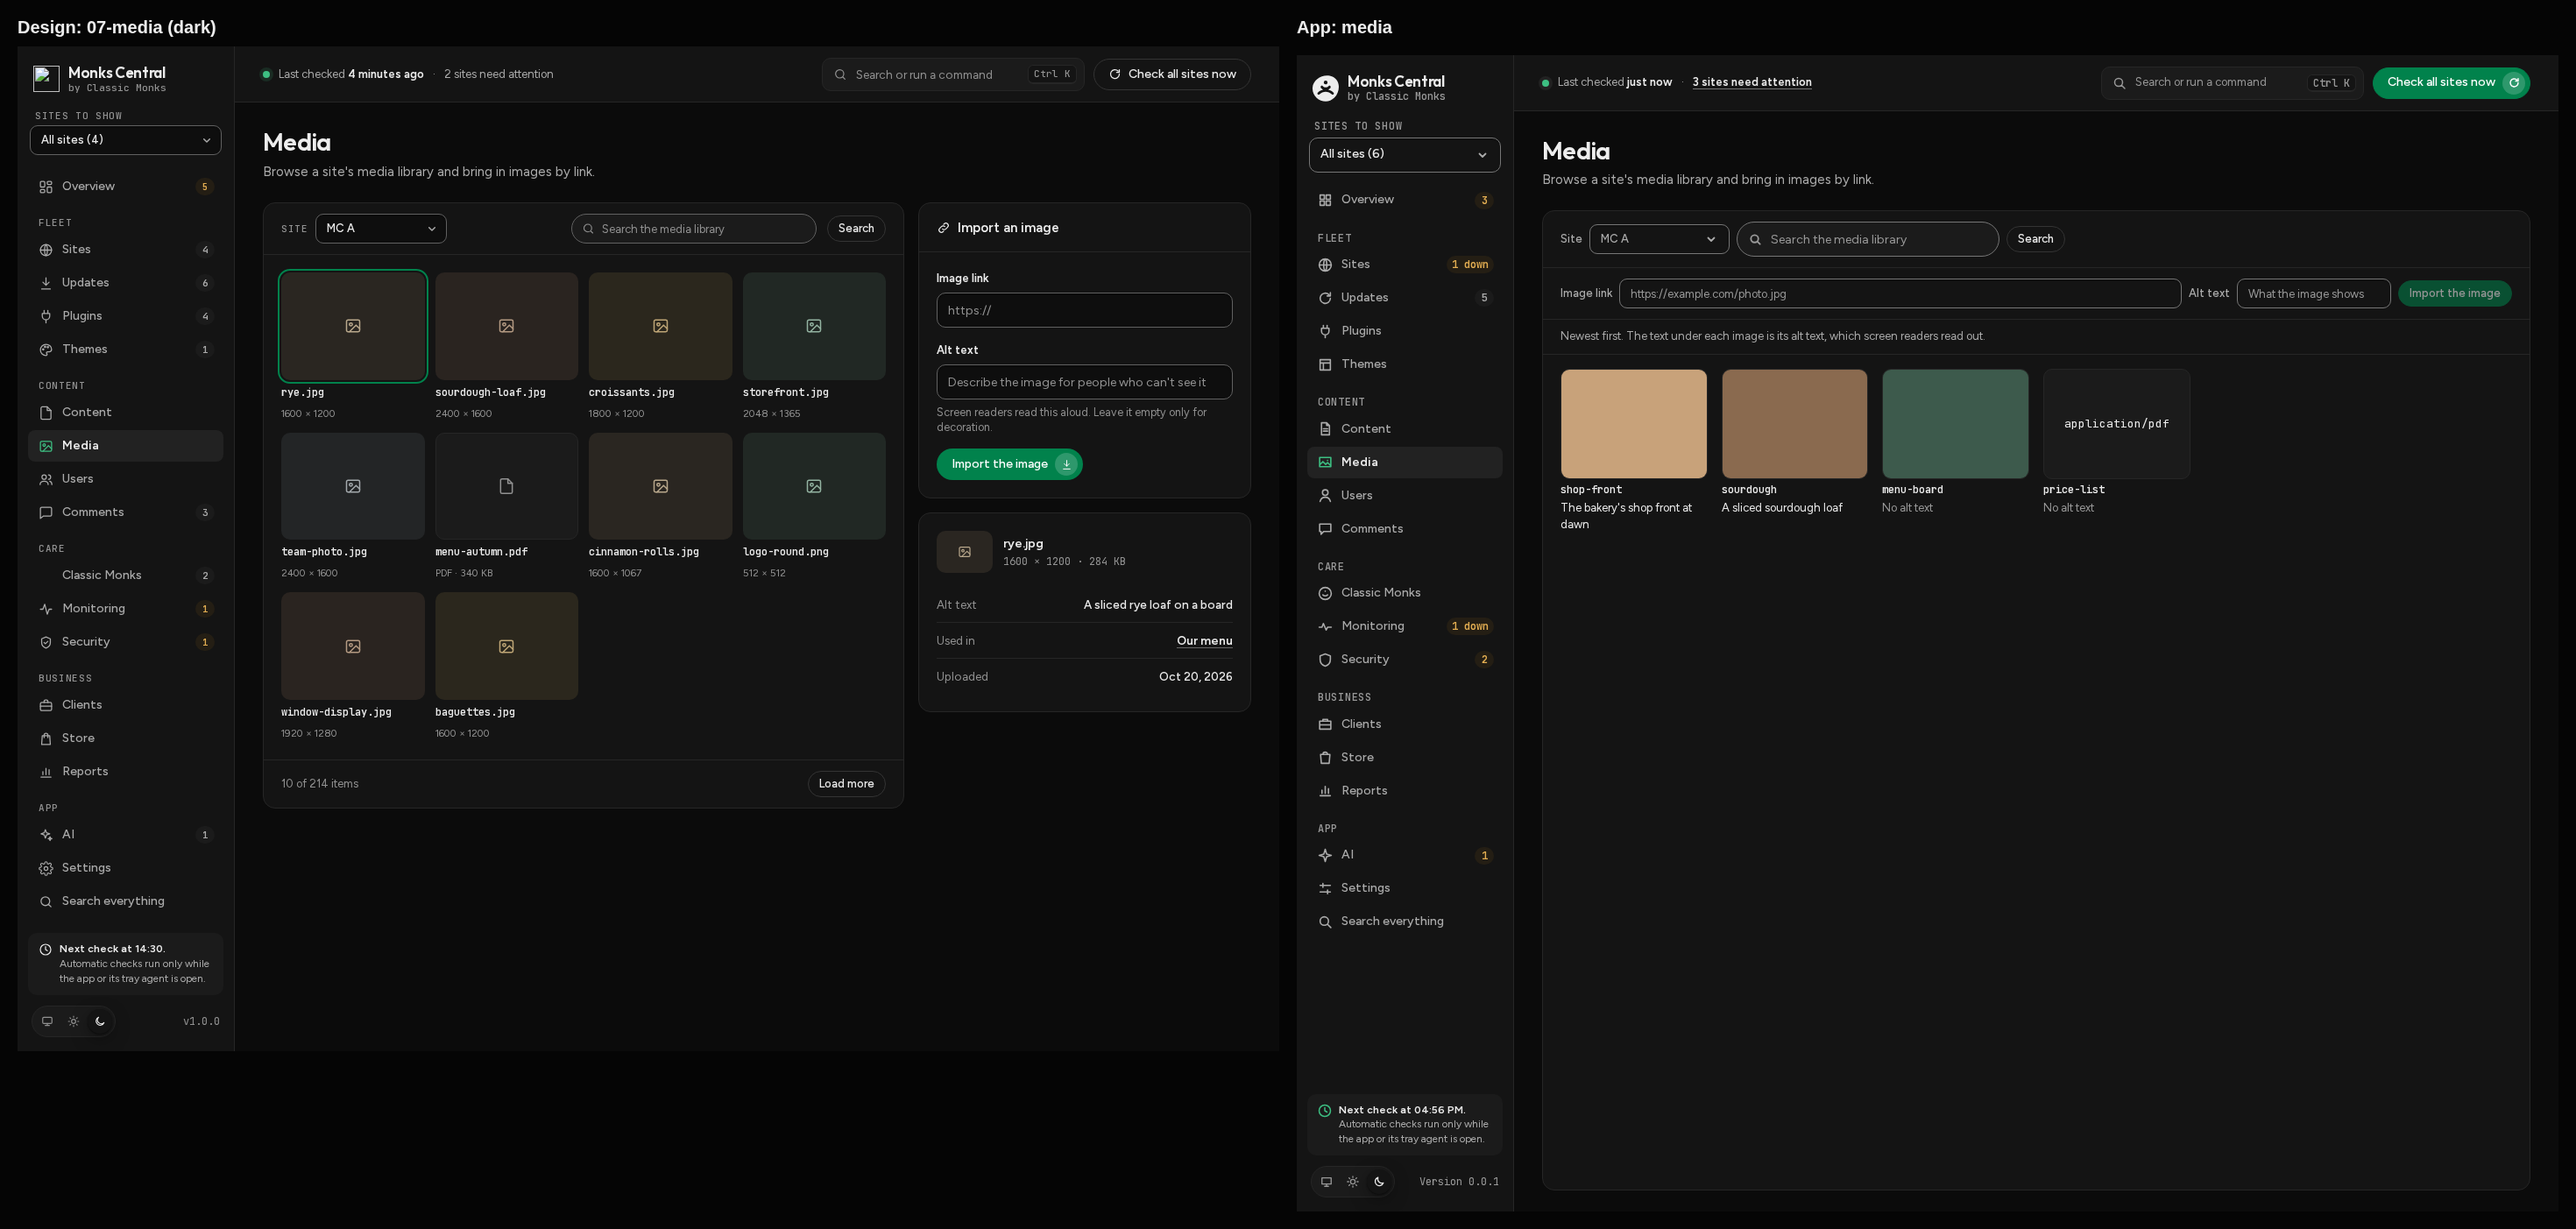
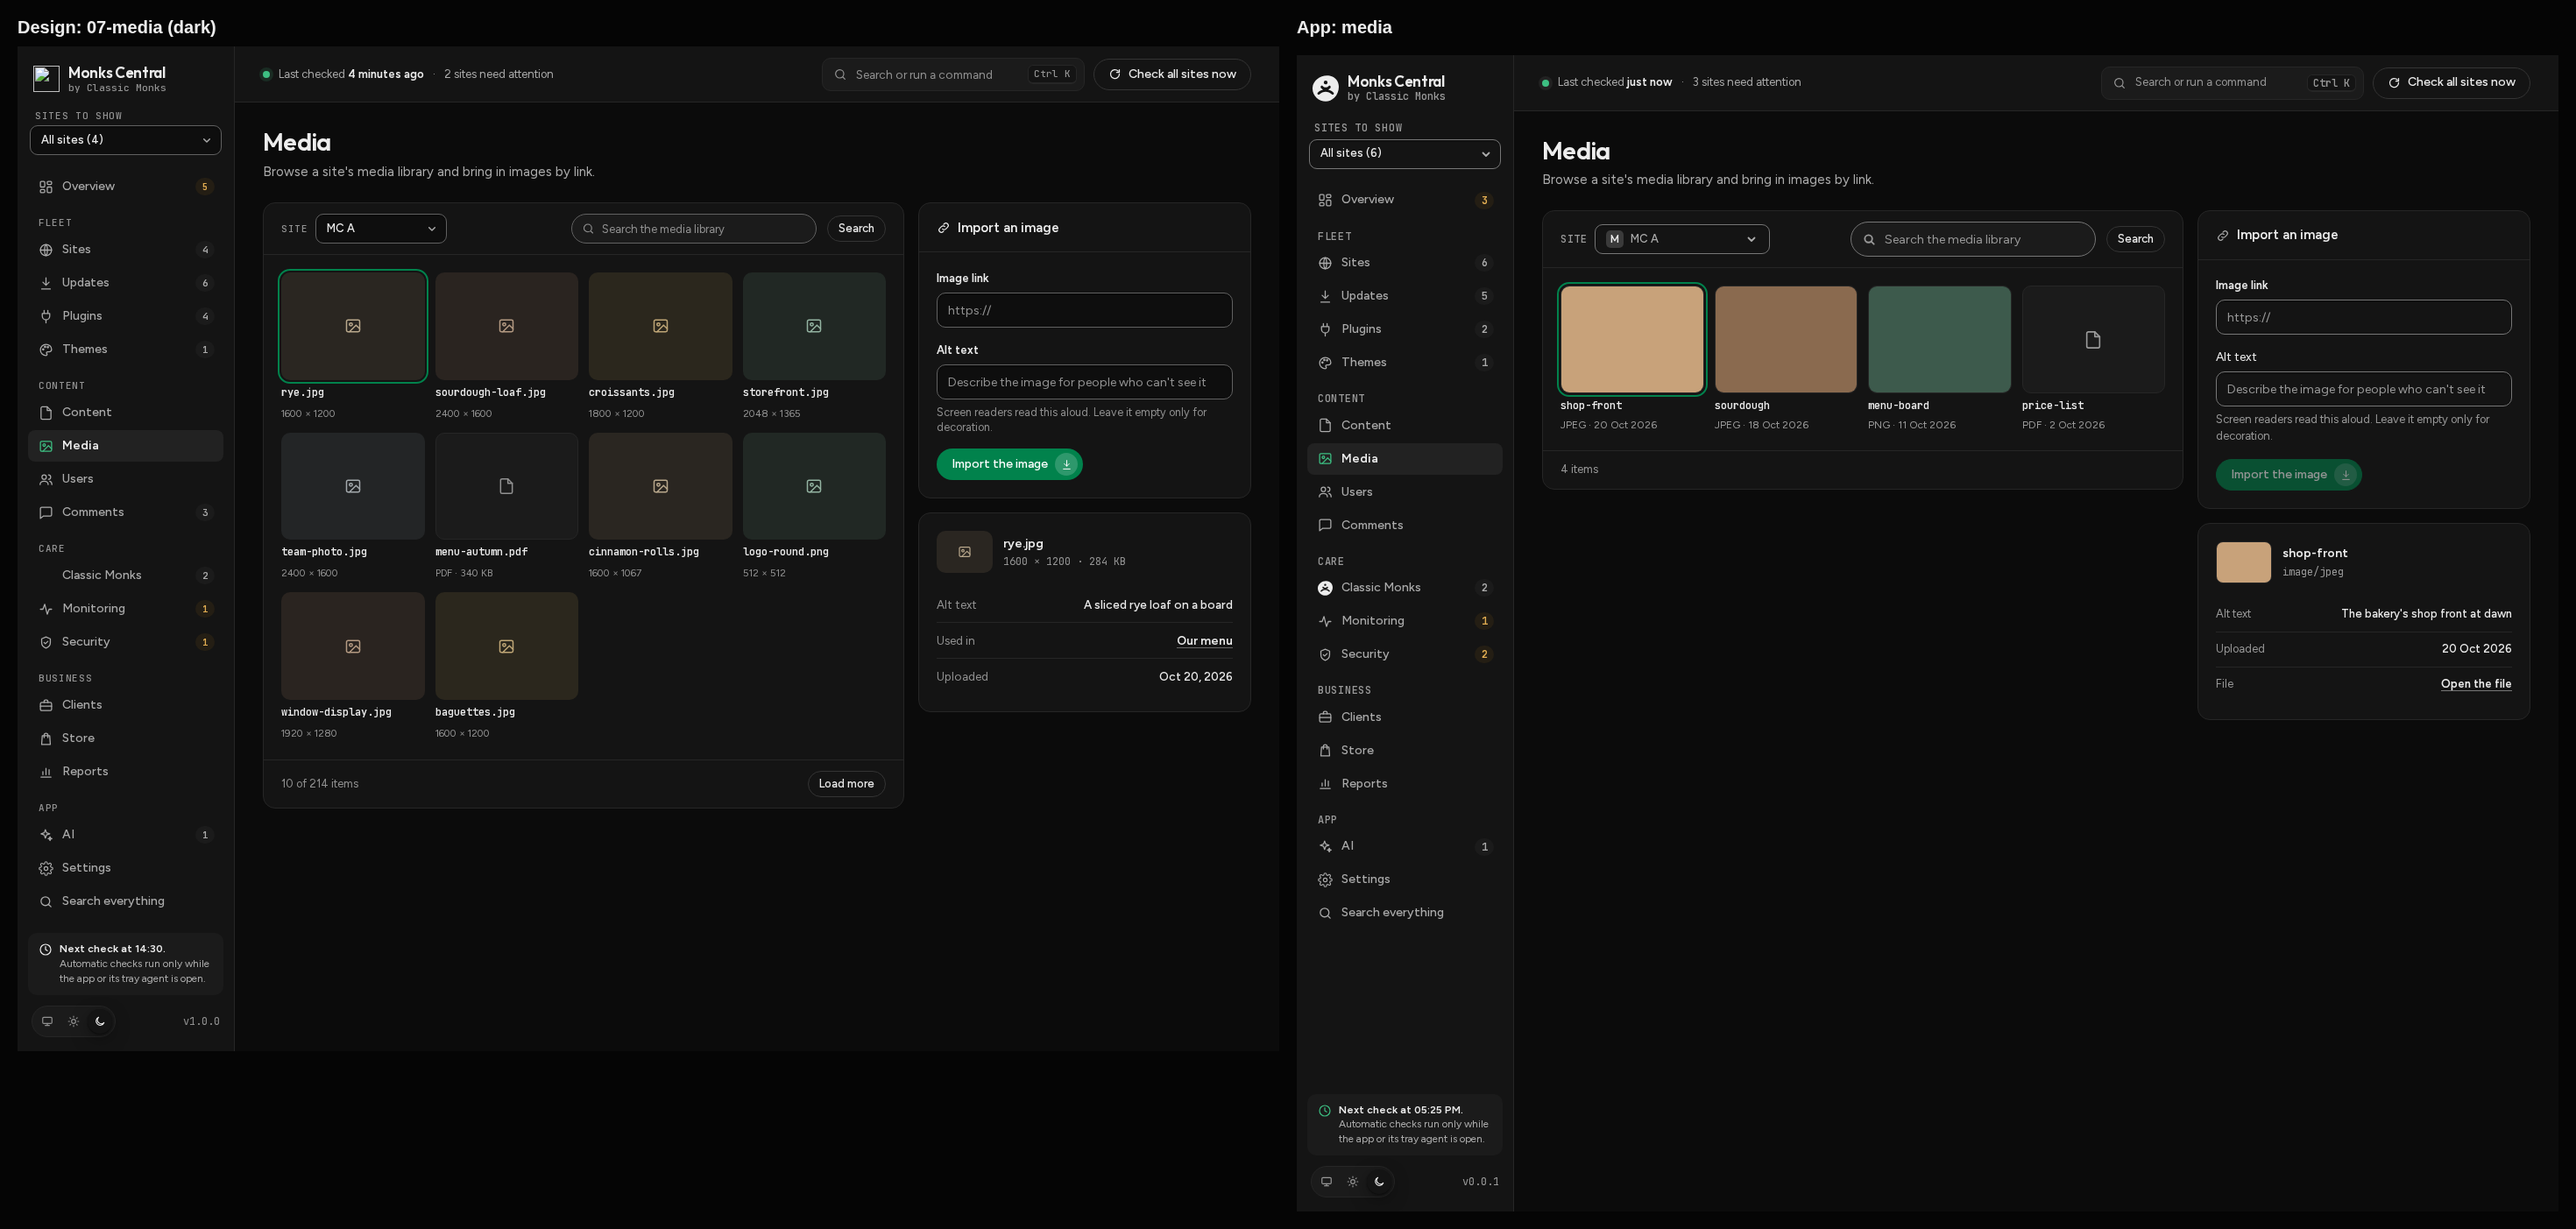
fix(ui): Media gets the design's thumbnail grid, Import card and picked item card

diff --git a/ui/src/screens/Media.tsx b/ui/src/screens/Media.tsx
@@ -1,13 +1,24 @@
 // SPDX-License-Identifier: GPL-3.0-or-later
 // A site's media library: browse, search, and import an image from a link (plan Phase 3).
-import { SearchInput } from "../components/controls";
+import "../styles/screens/media.css";
+import { dayLabel, SearchInput } from "../components/controls";
 import { Skeleton, toast } from "../components/feedback";
 import { useCallback, useEffect, useState } from "react";
 import { api, contentBlocked, type Media as Item, type Site } from "../api";
-import { Button } from "../components/ui";
+import { Button, Glyph } from "../components/ui";
 import { firstUsable, SitePick } from "./Content";
 
 const PAGE = 30;
+
+/** "image/jpeg" -> "JPEG", "application/pdf" -> "PDF". */
+const kind = (mime: string) => (mime.split("/")[1] ?? mime).replace(/^x-/, "").toUpperCase();
+
+/** An item's picture: the image itself, or a file glyph for anything else. */
+function Pic({ m, alt = "" }: { m: Item; alt?: string }) {
+  return (
+    <span className="mthumb-img">{m.mime.startsWith("image/") && m.url ? <img src={m.url} alt={alt} loading="lazy" /> : <Glyph name="file" />}</span>
+  );
+}
 
 export function Media({ sites }: { sites: Site[] }) {
   const [siteId, setSiteId] = useState<number | null>(() => firstUsable(sites));
@@ -24,6 +35,7 @@ export function Media({ sites }: { sites: Site[] }) {
   const [link, setLink] = useState("");
   const [alt, setAlt] = useState("");
   const [importing, setImporting] = useState(false);
+  const [picked, setPicked] = useState<number | null>(null);
 
   const load = useCallback(
     (p: number, keep = false) => {
@@ -68,6 +80,9 @@ export function Media({ sites }: { sites: Site[] }) {
     }
   };
 
+  // The picked item, or the newest one, shows its details beside the library.
+  const chosen = items?.find((m) => m.id === picked) ?? items?.[0] ?? null;
+
   let body;
   if (blocked) {
     body = (
@@ -85,85 +100,146 @@ export function Media({ sites }: { sites: Site[] }) {
       </div>
     );
   } else if (!items) {
-    body = (
-      <Skeleton label={`Reading ${site?.name}'s media library…`} />
-    );
+    body = <Skeleton label={`Reading ${site?.name}'s media library…`} />;
   } else if (items.length === 0) {
     body = (
       <div className="empty">
         <h2>{search ? "Nothing matches." : "The media library is empty."}</h2>
-        <p>{search ? "Try other words." : "Import an image from a link above."}</p>
+        <p>{search ? "Try other words." : "Import an image from a link."}</p>
       </div>
     );
   } else {
     body = (
       <>
-        <p className="legend" id="media-legend">
-          Newest first. The text under each image is its alt text, which screen readers read out.
+        <p className="sr-only" id="media-legend">
+          Newest first. Pick one to see its alt text, which screen readers read out, and its details.
         </p>
-        <ul className="media" aria-label={`${site?.name} media`} aria-describedby="media-legend">
+        <ul className="mthumbs" aria-label={`${site?.name} media`} aria-describedby="media-legend">
           {items.map((m) => (
             <li key={m.id}>
-              {m.mime.startsWith("image/") ? <img src={m.url} alt={m.alt} loading="lazy" /> : <span className="file mono">{m.mime}</span>}
-              <b className="cut" data-tip={m.title}>
-                {m.title || "No title"}
-              </b>
-              <span className={m.alt ? "" : "dim"}>{m.alt || "No alt text"}</span>
+              <button type="button" className="mthumb" aria-pressed={m.id === chosen?.id} onClick={() => setPicked(m.id)}>
+                <Pic m={m} />
+                <b data-tip={m.title}>{m.title || "No title"}</b>
+                <small>
+                  {kind(m.mime)}
+                  {m.date && ` · ${dayLabel(m.date) || m.date}`}
+                </small>
+              </button>
             </li>
           ))}
         </ul>
-        {more && (
-          <div className="pager">
-            <Button small onClick={() => load(page + 1)}>
-              Show more
-            </Button>
-          </div>
-        )}
       </>
     );
   }
 
   return (
-    <div className="scroll">
-      <div className="bar">
-        <SitePick sites={sites} value={current} onChange={setSiteId} />
-        {!blocked && (
+    <div className="scroll page">
+      <div className={blocked ? "stack" : "split-r"}>
+        <section className="card mlib" aria-label={site ? `Media library of ${site.name}` : "Media library"}>
           <form
-            className="row"
+            className="card-head"
             onSubmit={(e) => {
               e.preventDefault();
               setSearch(typed.trim());
             }}
           >
-            <SearchInput className="sm" aria-label="Search the media library" placeholder="Search the media library" value={typed} onChange={(e) => setTyped(e.target.value)} />
-            <Button small type="submit">
-              Search
-            </Button>
+            <SitePick sites={sites} value={current} onChange={setSiteId} />
+            {!blocked && (
+              <>
+                <SearchInput className="sm" aria-label="Search the media library" placeholder="Search the media library" value={typed} onChange={(e) => setTyped(e.target.value)} />
+                <Button small type="submit">
+                  Search
+                </Button>
+              </>
+            )}
           </form>
+          {body}
+          {items && items.length > 0 && !blocked && !error && (
+            <div className="card-foot">
+              <span className="count">
+                {items.length === 1 ? "1 item" : `${items.length} items`}
+                {more && " so far"}
+              </span>
+              {more && (
+                <Button small onClick={() => load(page + 1)}>
+                  Load more
+                </Button>
+              )}
+            </div>
+          )}
+        </section>
+        {!blocked && (
+          <div className="stack mside">
+            <form
+              className="card"
+              aria-labelledby="media-import"
+              onSubmit={(e) => {
+                e.preventDefault();
+                add();
+              }}
+            >
+              <div className="card-head">
+                <h2 id="media-import">
+                  <Glyph name="link" />
+                  Import an image
+                </h2>
+              </div>
+              <div className="card-body">
+                <label className="field">
+                  <span>Image link</span>
+                  <input className="input" type="url" spellCheck={false} placeholder="https://" value={link} onChange={(e) => setLink(e.target.value)} />
+                </label>
+                <div className="field">
+                  <label htmlFor="media-alt">Alt text</label>
+                  <input id="media-alt" className="input" aria-describedby="media-alt-help" placeholder="Describe the image for people who can't see it" value={alt} onChange={(e) => setAlt(e.target.value)} />
+                  <small id="media-alt-help">Screen readers read this aloud. Leave it empty only for decoration.</small>
+                </div>
+                <div>
+                  <Button kind="primary" className="disc" type="submit" disabled={importing || !link.trim()}>
+                    {importing ? "Importing…" : "Import the image"}
+                    <span className="btn-disc">
+                      <Glyph name="download" />
+                    </span>
+                  </Button>
+                </div>
+              </div>
+            </form>
+            {chosen && (
+              <section className="card" aria-label={`Selected: ${chosen.title || "No title"}`}>
+                <div className="card-body">
+                  <div className="mpicked">
+                    <Pic m={chosen} alt={chosen.alt} />
+                    <div>
+                      <b>{chosen.title || "No title"}</b>
+                      <span className="mono dim">{chosen.mime}</span>
+                    </div>
+                  </div>
+                  <dl className="dl">
+                    <div>
+                      <dt>Alt text</dt>
+                      <dd className={chosen.alt ? undefined : "dim"}>{chosen.alt || "No alt text"}</dd>
+                    </div>
+                    <div>
+                      <dt>Uploaded</dt>
+                      <dd>{dayLabel(chosen.date) || chosen.date || "not known"}</dd>
+                    </div>
+                    {chosen.url && (
+                      <div>
+                        <dt>File</dt>
+                        <dd>
+                          <button type="button" className="link" onClick={() => api.openLink(chosen.url).catch((e) => toast(String(e), { tone: "danger" }))}>
+                            Open the file
+                          </button>
+                        </dd>
+                      </div>
+                    )}
+                  </dl>
+                </div>
+              </section>
+            )}
+          </div>
         )}
       </div>
-      {!blocked && (
-        <form
-          className="bar import"
-          onSubmit={(e) => {
-            e.preventDefault();
-            add();
-          }}
-        >
-          <label className="row pick grow">
-            <span>Image link</span>
-            <input className="input sm" placeholder="https://example.com/photo.jpg" value={link} onChange={(e) => setLink(e.target.value)} />
-          </label>
-          <label className="row pick">
-            <span>Alt text</span>
-            <input className="input sm" placeholder="What the image shows" value={alt} onChange={(e) => setAlt(e.target.value)} />
-          </label>
-          <Button kind="primary" small type="submit" disabled={importing || !link.trim()}>
-            {importing ? "Importing…" : "Import the image"}
-          </Button>
-        </form>
-      )}
-      {body}
     </div>
   );
 }

diff --git a/ui/src/styles/screens/media.css b/ui/src/styles/screens/media.css
@@ -1,0 +1,28 @@
+/* Media (screens/Media.tsx): the library card of thumbnails, and beside it Import and the picked item. */
+.mlib .card-head .pick { margin-right: auto; gap: var(--sp-2); }
+.mlib .card-head .pick > span { font: 500 var(--fs-xs)/16px var(--mono); text-transform: uppercase; letter-spacing: var(--label-track); color: var(--text-3); }
+.mlib .card-head .pick .input { width: 200px; min-width: 0; }
+.mlib .card-head .srch { flex: 0 1 280px; min-width: 200px; }
+.mlib .card-head .srch .input { width: 100%; }
+.mlib .card-foot .count { margin-right: auto; color: var(--text-3); font-size: var(--fs-sm); }
+
+/* Rounded 4:3 thumbnails, a mono file name and a small meta line; the picked one has a green ring. */
+.mthumbs { list-style: none; margin: 0; padding: 20px; display: grid; grid-template-columns: repeat(auto-fill, minmax(132px, 1fr)); gap: var(--sp-3); }
+.mthumbs li { min-width: 0; }
+.mthumb { width: 100%; display: grid; gap: 6px; padding: 0; border: 0; background: none; color: inherit; text-align: left; cursor: pointer; border-radius: 10px; }
+.mthumb-img { display: grid; place-items: center; aspect-ratio: 4 / 3; overflow: hidden; border-radius: 10px; background: var(--panel); border: 1px solid var(--line); color: var(--text-3); }
+.mthumb-img img { width: 100%; height: 100%; object-fit: cover; }
+.mthumb-img .glyph { width: 22px; height: 22px; }
+.mthumb:hover .mthumb-img { border-color: var(--line-ui); }
+.mthumb[aria-pressed="true"] .mthumb-img { outline: 2px solid var(--green); outline-offset: 2px; }
+.mthumb b { font: 500 var(--fs-xs)/16px var(--mono); color: var(--text); overflow: hidden; text-overflow: ellipsis; white-space: nowrap; }
+.mthumb small { font-size: var(--fs-xs); color: var(--text-3); overflow: hidden; text-overflow: ellipsis; white-space: nowrap; }
+
+/* The picked item's card: a small thumbnail, its name and type, then its details. */
+.mpicked { display: flex; align-items: center; gap: var(--sp-3); min-width: 0; }
+.mpicked .mthumb-img { width: 64px; flex: none; border-radius: 8px; }
+.mpicked > div { display: grid; gap: 2px; min-width: 0; }
+.mpicked b { font-weight: 600; overflow: hidden; text-overflow: ellipsis; white-space: nowrap; }
+.mpicked .mono { font-size: var(--fs-xs); }
+.mside .card-body .field { margin: 0; }
+.mside .card-head h2 .glyph { width: 16px; height: 16px; color: var(--text-2); }

diff --git a/docs/design/redesign/audit/07-media.md b/docs/design/redesign/audit/07-media.md
@@ -1,0 +1,11 @@
+| Page | Section | Design | App (before) | Fix | Status |
+|---|---|---|---|---|---|
+| 07 Media | Layout | `split-r`: library card left, a 380px column right (Import card, Selected card) | One big card: two bars, a legend row, a grid | `.scroll.page` > `.split-r`: `section.card.mlib` + `.stack.mside` (screens/media.css) | done |
+| 07 Media | Library head | Card head: mono SITE label + select (pushed left), search pill 280px, Search button | Bar with sans label, search box and button | `.card-head` form: SitePick (tile + name), `SearchInput` pill, small Search | done |
+| 07 Media | Thumbnails | `.mc-thumbs` grid minmax(132px), rounded 10px 4:3 tiles, mono 12px name, small meta line, selected outline 2px green offset 2 | 160px grid, 10px radius images, name + alt text under each | `.mthumbs`/`.mthumb` buttons with `aria-pressed`; image cover or file glyph; mono name; meta "JPEG · 20 Oct 2026" | done |
+| 07 Media | Thumbnails | Meta "1600 × 1200" / "PDF · 340 KB" | Alt text | Type and upload date | kept: the media API has no dimensions or file size |
+| 07 Media | Footer | "10 of 214 items" + Load more | "Show more" pager only when more | `.card-foot` "N items" ("so far" when more) + "Load more" | kept (count): the API has no total, so the count is what is loaded |
+| 07 Media | Import card | Card head "Import an image" with link icon; Image link (https://), Alt text with help line; primary "Import the image" with download disc | A bar with inline label/inputs and a small primary button | Card with `Glyph link` head, two `.field`s, help text as the box's description, primary `.disc` with `Glyph download` | done |
+| 07 Media | Import card | Button enabled | Disabled until a link is typed | Kept | kept: nothing to import without a link |
+| 07 Media | Selected card | 64px thumb, name, mono meta; dl Alt text, Used in, Uploaded | None (alt text under each tile) | Card for the picked (or newest) item: thumb, name, mono mime; `.dl` Alt text, Uploaded, File (Open the file) | done |
+| 07 Media | Selected card | "Used in: Our menu" | None | Not shown | kept: the core doesn't know where an item is used |
